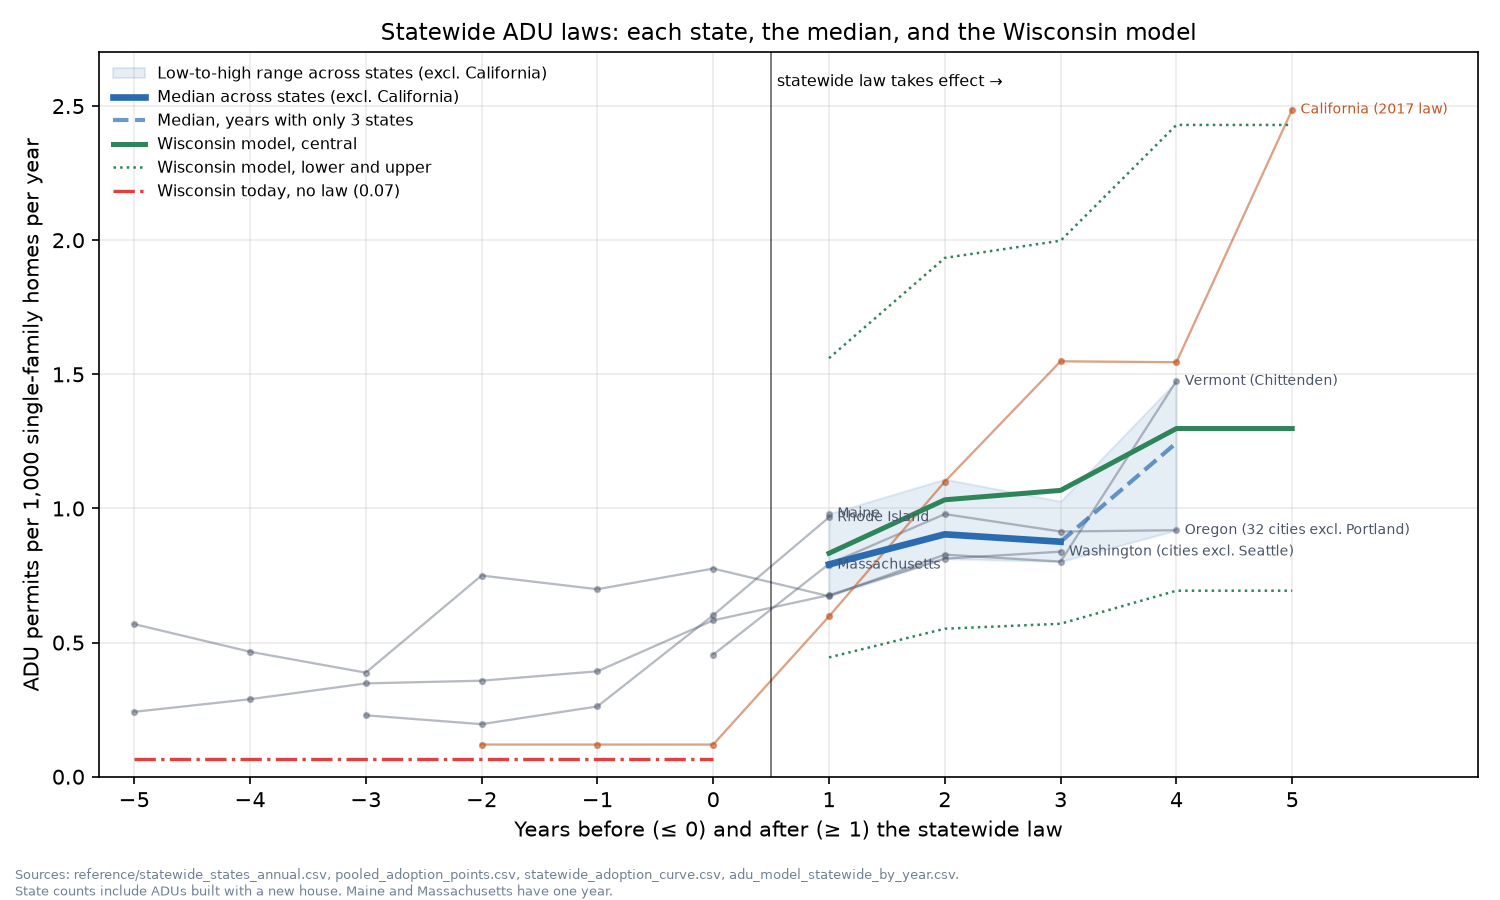
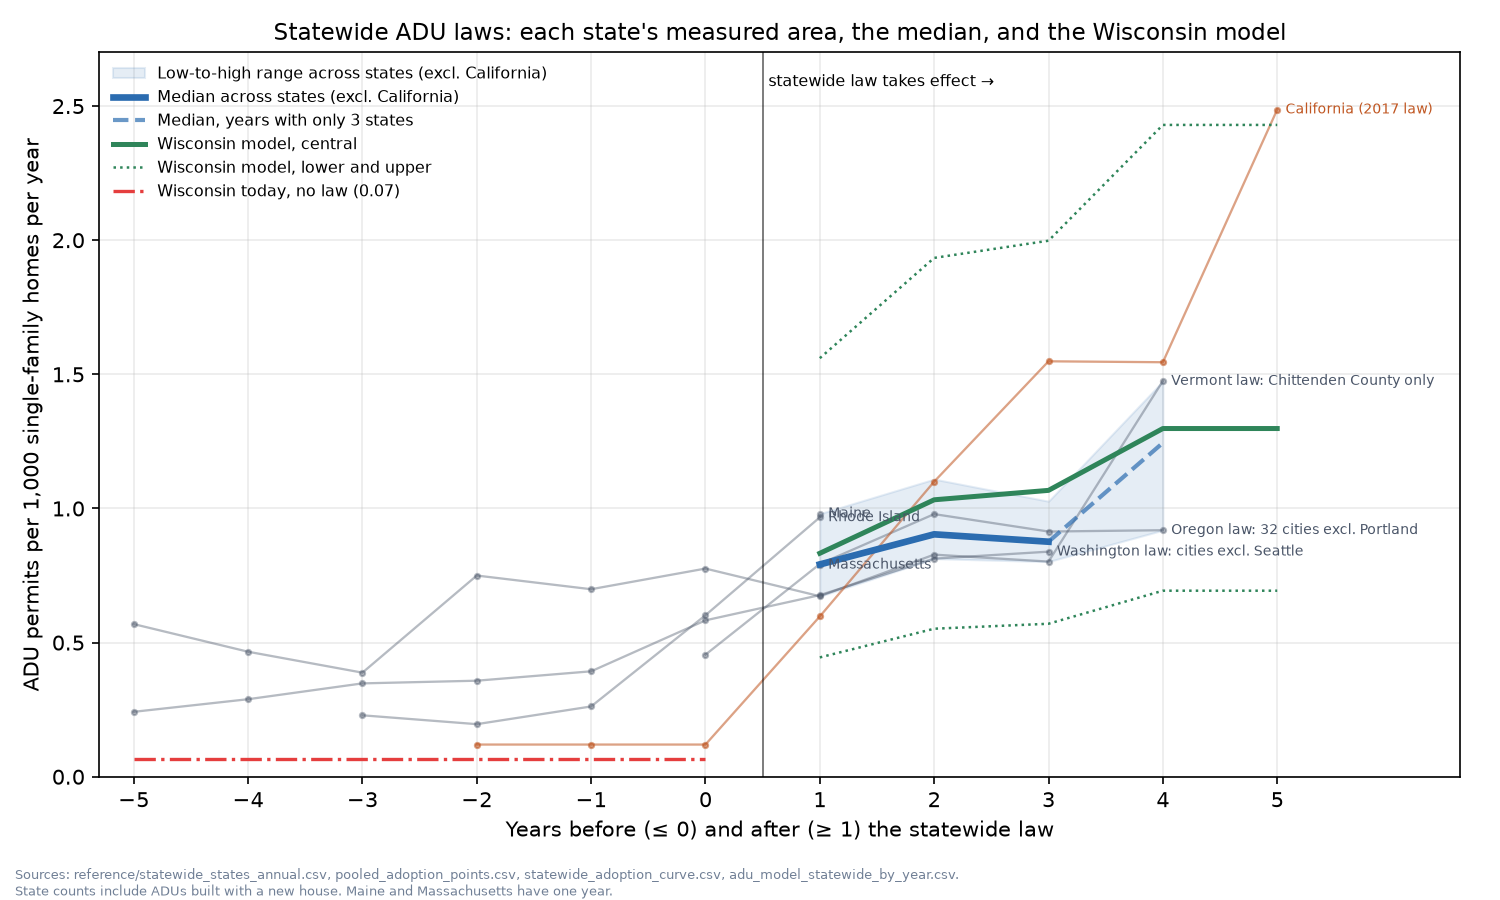
Label state series by the area actually measured (Vermont = Chittenden County only)

diff --git a/scripts/plot_adoption_spaghetti.py b/scripts/plot_adoption_spaghetti.py
@@ -31,8 +31,8 @@ WI_HOMES = 1_839_569
 MADISON_ID = "muni:5502548000"
 FORECAST_START = 2027  # stylized: law in force from forecast year 1 (AQ-021)
 
-NAMES = {"WA_inc_exSeattle": "Washington (cities excl. Seattle)", "OR_panel32_exPortland": "Oregon (32 cities excl. Portland)",
-         "VT_chittenden": "Vermont (Chittenden)", "UT_mih": "Utah", "MA_statewide": "Massachusetts",
+NAMES = {"WA_inc_exSeattle": "Washington law: cities excl. Seattle", "OR_panel32_exPortland": "Oregon law: 32 cities excl. Portland",
+         "VT_chittenden": "Vermont law: Chittenden County only", "UT_mih": "Utah law: reporting cities", "MA_statewide": "Massachusetts",
          "ME_statewide": "Maine", "RI_statewide": "Rhode Island"}
 GREY, BLUE, GREEN, ORANGE, RED, PURPLE = "#4a5568", "#2b6cb0", "#2f855a", "#c05621", "#e53e3e", "#805ad5"
 
@@ -85,7 +85,7 @@ def states_chart() -> Path:
                 label="Wisconsin model, central" if path == "central" else ("Wisconsin model, lower and upper" if path == "lower" else None))
     wi_now = by_year[by_year["path"] == "central"]["baseline_units"].iloc[0] / WI_HOMES * 1000
     ax.plot([-5, 0], [wi_now, wi_now], color=RED, lw=1.6, ls="-.", label=f"Wisconsin today, no law ({wi_now:.2f})")
-    _style(ax, "Statewide ADU laws: each state, the median, and the Wisconsin model", -5)
+    _style(ax, "Statewide ADU laws: each state's measured area, the median, and the Wisconsin model", -5)
     fig.text(0.01, 0.005, "Sources: reference/statewide_states_annual.csv, pooled_adoption_points.csv, statewide_adoption_curve.csv, "
              "adu_model_statewide_by_year.csv.\nState counts include ADUs built with a new house. Maine and Massachusetts have one year.",
              fontsize=6, color="#718096")
